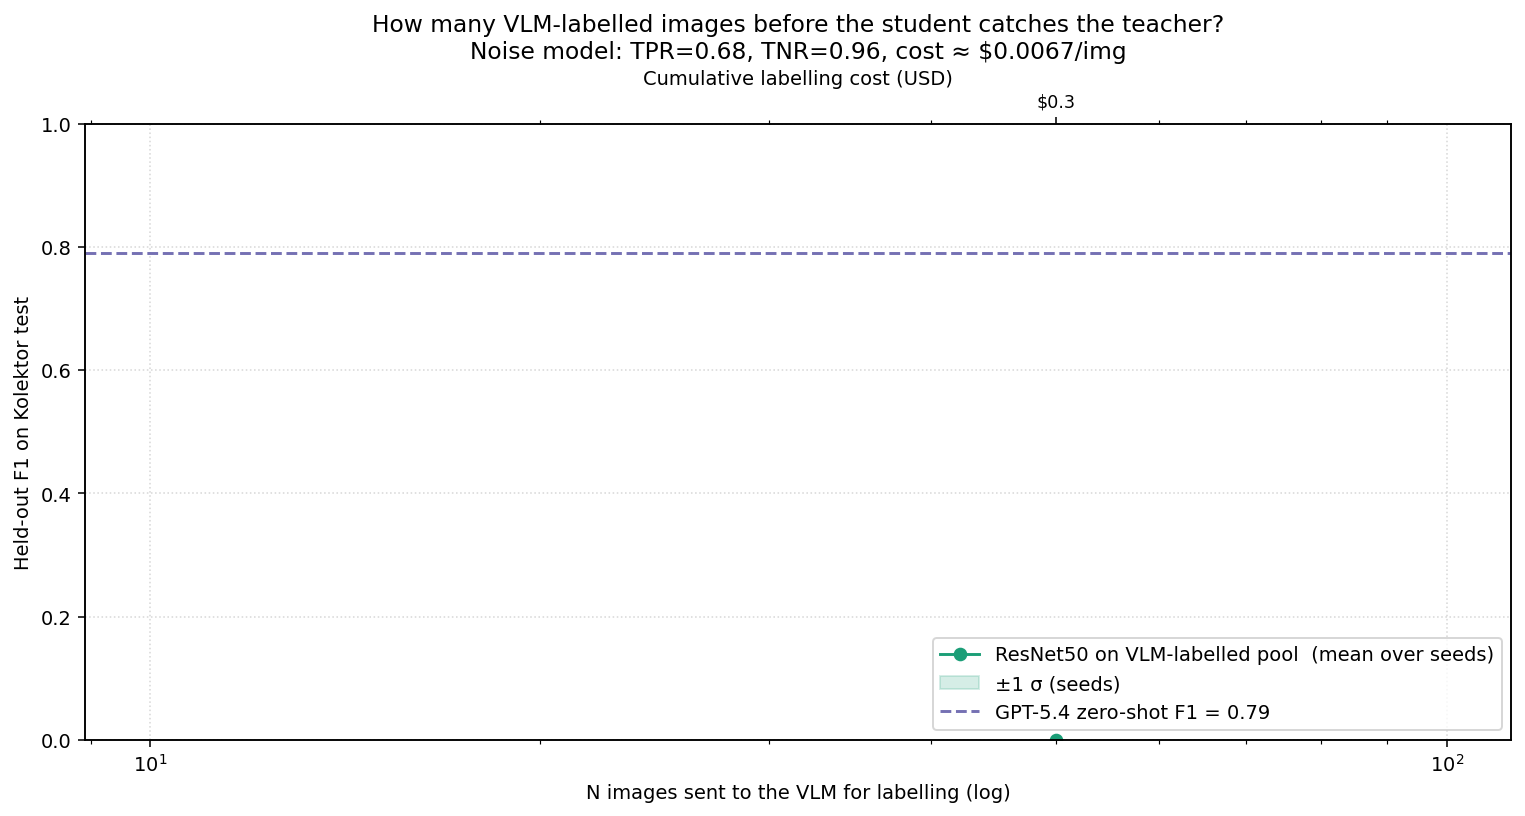
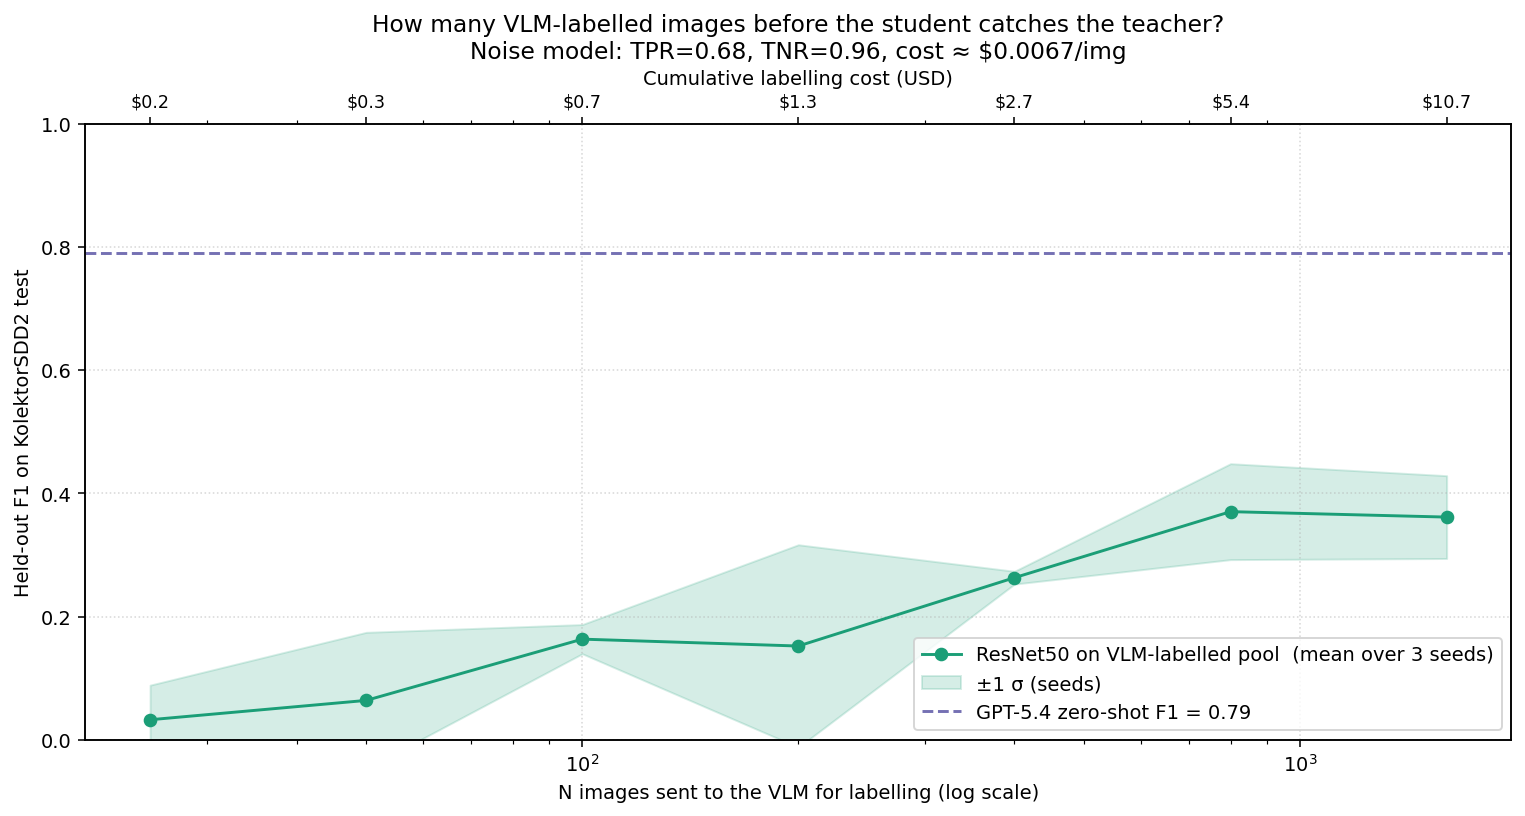
add lableling curve:

diff --git a/docs/slides.html b/docs/slides.html
@@ -355,8 +355,16 @@ Jonathan Jayes
 </section>
 <section id="we-make-some-assumptions-about-the-project-spec" class="slide level2">
 <h2>We make some assumptions about the project spec</h2>
-<p>We will treat the problem as if they have no labelled data, but want us to as quickly as possible provide them with a system that can identify defects on the production line.</p>
-<p>Then in this demo, I choose two datasets that have some similarities to what we might expect from AQ Group, and use another two datasets as a holdout set to test how well our models generalise to new domains.</p>
+<p>We will treat the problem as if they have</p>
+<ul>
+<li><p>no labelled data,</p></li>
+<li><p>but want us to as quickly as possible provide them with a system that can identify defects on the production line.</p></li>
+</ul>
+<p>Then in this demo, I choose</p>
+<ul>
+<li><p>two datasets that have some similarities to what we might expect from AQ Group as training data</p></li>
+<li><p>and use another dataset as a holdout set to test how well our models generalise to new domains.</p></li>
+</ul>
 <p>So how do we go about this??</p>
 </section></section>
 <section>
@@ -440,23 +448,23 @@ Jonathan Jayes
           display:block!important;
       }</style></aside>
 </section>
-<section id="datasets-at-a-glance" class="slide level2">
+<section id="datasets-at-a-glance" class="slide level2 smaller">
 <h2>Datasets at a glance</h2>
 <table class="caption-top">
 <colgroup>
 <col style="width: 18%">
-<col style="width: 13%">
-<col style="width: 8%">
+<col style="width: 9%">
 <col style="width: 7%">
+<col style="width: 6%">
 <col style="width: 17%">
-<col style="width: 32%">
+<col style="width: 39%">
 </colgroup>
 <thead>
 <tr class="header">
 <th style="text-align: left;">Dataset</th>
 <th style="text-align: left;">Role</th>
-<th style="text-align: right;">n train</th>
-<th style="text-align: right;">n test</th>
+<th style="text-align: right;">Train</th>
+<th style="text-align: right;">Test</th>
 <th style="text-align: left;">Image size</th>
 <th style="text-align: left;">Native taxonomy</th>
 </tr>
@@ -464,25 +472,25 @@ Jonathan Jayes
 <tbody>
 <tr class="odd">
 <td style="text-align: left;"><strong>Severstal</strong></td>
-<td style="text-align: left;">TRAIN POOL</td>
-<td style="text-align: right;">10 053</td>
-<td style="text-align: right;">1 259</td>
+<td style="text-align: left;">Train</td>
+<td style="text-align: right;">10,053</td>
+<td style="text-align: right;">1,259</td>
 <td style="text-align: left;">1600 × 256</td>
 <td style="text-align: left;">4 classes (pit, scratch, patch, ridge)</td>
 </tr>
 <tr class="even">
 <td style="text-align: left;"><strong>NEU-DET</strong></td>
-<td style="text-align: left;">TRAIN POOL</td>
-<td style="text-align: right;">1 700</td>
+<td style="text-align: left;">Train</td>
+<td style="text-align: right;">1,700</td>
 <td style="text-align: right;">100</td>
 <td style="text-align: left;">200 × 200</td>
 <td style="text-align: left;">6 classes (crazing, inclusion, …)</td>
 </tr>
 <tr class="odd">
 <td style="text-align: left;"><strong>KolektorSDD2</strong></td>
-<td style="text-align: left;">HELD-OUT</td>
-<td style="text-align: right;">2 332</td>
-<td style="text-align: right;">1 004</td>
+<td style="text-align: left;">Holdout</td>
+<td style="text-align: right;">2,332</td>
+<td style="text-align: right;">1,004</td>
 <td style="text-align: left;">230 × 630–1240</td>
 <td style="text-align: left;">1 binary mask</td>
 </tr>
@@ -1314,7 +1322,7 @@ Jonathan Jayes
 <h1>F. Flagship VLM Bake-Off</h1>
 
 </section>
-<section id="same-images-frontier-models-zero-training" class="slide level2">
+<section id="same-images-frontier-models-zero-training" class="slide level2 smaller">
 <h2>Same images, frontier models, zero training</h2>
 <div class="columns">
 <div class="column" style="width:55%;">
@@ -1353,8 +1361,8 @@ Jonathan Jayes
           display:block!important;
       }</style></aside>
 </section>
-<section id="best-vlm-vs-every-classical-recipe-kolektorsdd2-f1" class="slide level2">
-<h2>Best VLM vs every classical recipe — KolektorSDD2 F1</h2>
+<section id="best-vlm-vs-classical-kolektorsdd2-f1" class="slide level2">
+<h2>Best VLM vs classical — KolektorSDD2 F1</h2>
 <div class="columns">
 <div class="column" style="width:60%;">
 <div class="quarto-figure quarto-figure-center">
@@ -1390,7 +1398,7 @@ Jonathan Jayes
 <h1>G. Prompt-tuning as gradient descent on words</h1>
 
 </section>
-<section id="a-structured-output-teacher-critiques-a-structured-output-student" class="slide level2">
+<section id="a-structured-output-teacher-critiques-a-structured-output-student" class="slide level2 smaller">
 <h2>A structured-output teacher critiques a structured-output student</h2>
 <div class="columns">
 <div class="column" style="width:55%;">
@@ -1556,7 +1564,7 @@ Jonathan Jayes
           display:block!important;
       }</style></aside>
 </section>
-<section id="one-off-labelling-classical-inference-vs-per-image-vlm" class="slide level2">
+<section id="one-off-labelling-classical-inference-vs-per-image-vlm" class="slide level2 smaller">
 <h2>One-off labelling + classical inference vs per-image VLM</h2>
 <div class="columns">
 <div class="column" style="width:60%;">
@@ -1580,10 +1588,48 @@ Jonathan Jayes
 <li>$0.50/label → ~261k images</li>
 </ul>
 <p>A line running 24/7 hits 26k images in <strong>hours</strong>. The hybrid (YOLO → escalate 30% to VLM) buys back another 3×.</p>
-<p><strong>Learning curve</strong> — <em>forthcoming</em>. <code>scripts/learning_curve_resnet.py</code> sweeps <code>N ∈ {50, 100, 250, 500, 1k, 2k, 2.3k}</code> to find the smallest label budget that lets the classical model match the VLM on Kolektor.</p>
 </div></div>
 <aside class="notes">
 <p>Numbers from scripts/make_cost_tradeoff_figure.py, sourcing per-call VLM cost from results/vlm/flagship_summary_*.json.</p>
+<style type="text/css">
+        span.MJX_Assistive_MathML {
+          position:absolute!important;
+          clip: rect(1px, 1px, 1px, 1px);
+          padding: 1px 0 0 0!important;
+          border: 0!important;
+          height: 1px!important;
+          width: 1px!important;
+          overflow: hidden!important;
+          display:block!important;
+      }</style></aside>
+</section>
+<section id="does-the-student-ever-catch-the-teacher" class="slide level2 smaller">
+<h2>Does the student ever catch the teacher?</h2>
+<div class="columns">
+<div class="column" style="width:65%;">
+<div class="quarto-figure quarto-figure-center">
+<figure>
+<p><img data-src="../figures/bakeoff/labelling_curve.png" style="width:100.0%"></p>
+<figcaption>ResNet50 trained on VLM pseudo-labels at increasing N (3 seeds per N). Dashed line = GPT-5.4 zero-shot F1 = 0.79.</figcaption>
+</figure>
+</div>
+</div><div class="column" style="width:35%;">
+<p><strong>Setup</strong> (<code>scripts/labelling_curve.py</code>)</p>
+<ul>
+<li>Pool: Kolektor train (~2 300 images, ~10 % defective)</li>
+<li>Labels: VLM pseudo-labels with measured noise (TPR=0.68, TNR=0.96)</li>
+<li>3 seeds per N — no class balancing</li>
+<li>6 epochs, AdamW, ResNet50</li>
+</ul>
+<p><strong>Reading the chart</strong></p>
+<ul>
+<li>At N ≤ 1 600, the student has not caught the teacher (F1 peaks ~0.37 vs 0.79).</li>
+<li>The gap signals that <strong>more labels</strong> and/or a cleaner label budget would be needed.</li>
+<li>The dollar axis makes the trade-off concrete: $10.74 of labelling still falls short.</li>
+</ul>
+</div></div>
+<aside class="notes">
+<p>The student (ResNet50) never catches the teacher (GPT-5.4 zero-shot) within the 1 600-image budget tested. This is an honest result — the teacher is very good and the labels are noisy. The practical implication is that you need either more images, better labels, or a fine-tuned VLM starting point before the classical model matches.</p>
 <style type="text/css">
         span.MJX_Assistive_MathML {
           position:absolute!important;
@@ -1601,7 +1647,7 @@ Jonathan Jayes
 <h1>J. The takeaway</h1>
 
 </section>
-<section id="use-vlms-to-teach-classical-cv.-dont-put-them-in-the-hot-loop." class="slide level2">
+<section id="use-vlms-to-teach-classical-cv.-dont-put-them-in-the-hot-loop." class="slide level2 smaller">
 <h2>Use VLMs to teach classical CV. Don’t put them in the hot loop.</h2>
 <div class="columns">
 <div class="column" style="width:50%;">

diff --git a/scripts/prompt_tune_vlm.py b/scripts/prompt_tune_vlm.py
@@ -190,8 +190,12 @@ def request_prompt_edit(domain: str, provider: str, records: list[dict]) -> dict
 
 
 def plot_curve(history: dict, out: Path) -> None:
-    fig, axes = plt.subplots(1, 2, figsize=(13, 5), sharey=True)
-    for ax, domain in zip(axes, history["domains"]):
+    domains = list(history["domains"].keys())
+    n = len(domains)
+    width = 8 if n == 1 else 13
+    fig, axes_raw = plt.subplots(1, n, figsize=(width, 5), sharey=True)
+    axes = [axes_raw] if n == 1 else list(axes_raw)
+    for ax, domain in zip(axes, domains):
         for provider, rounds in history["domains"][domain].items():
             f1s = [r["f1_calib"] for r in rounds]
             xs = list(range(len(f1s)))